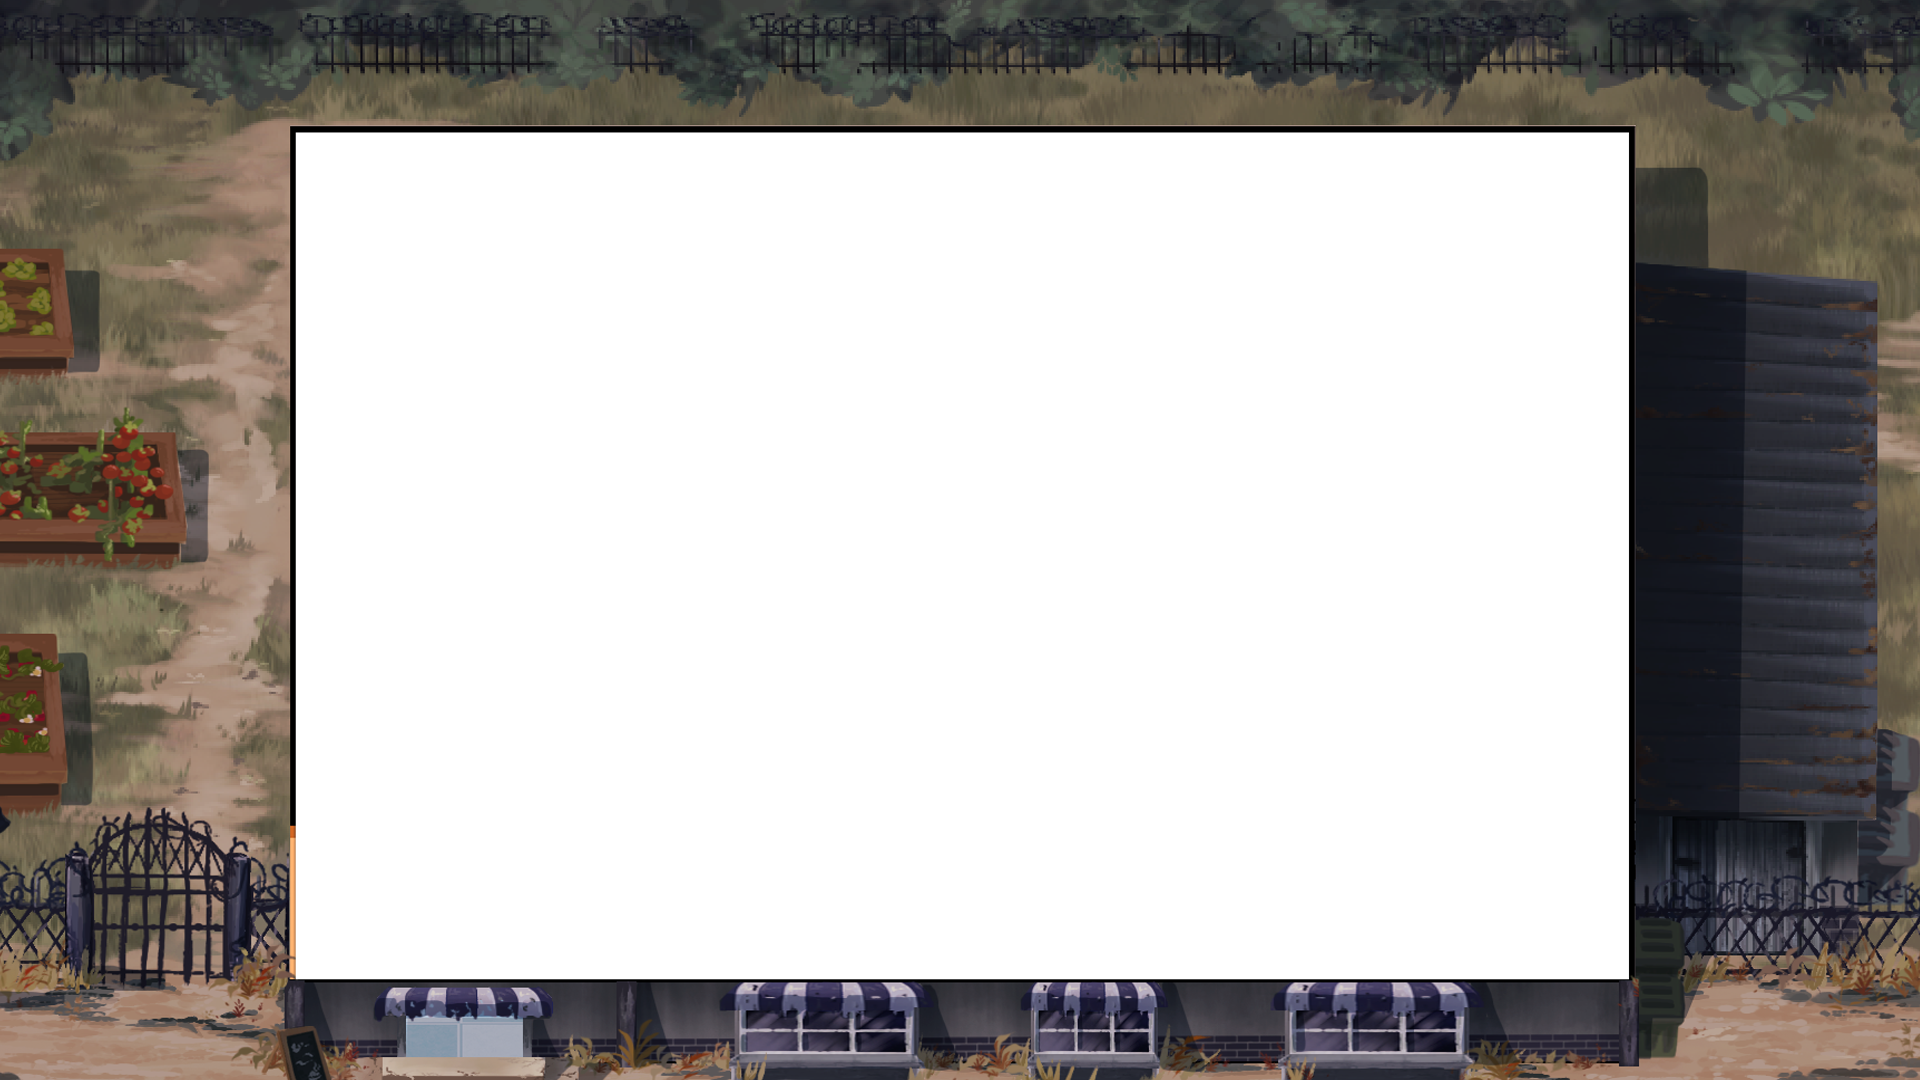
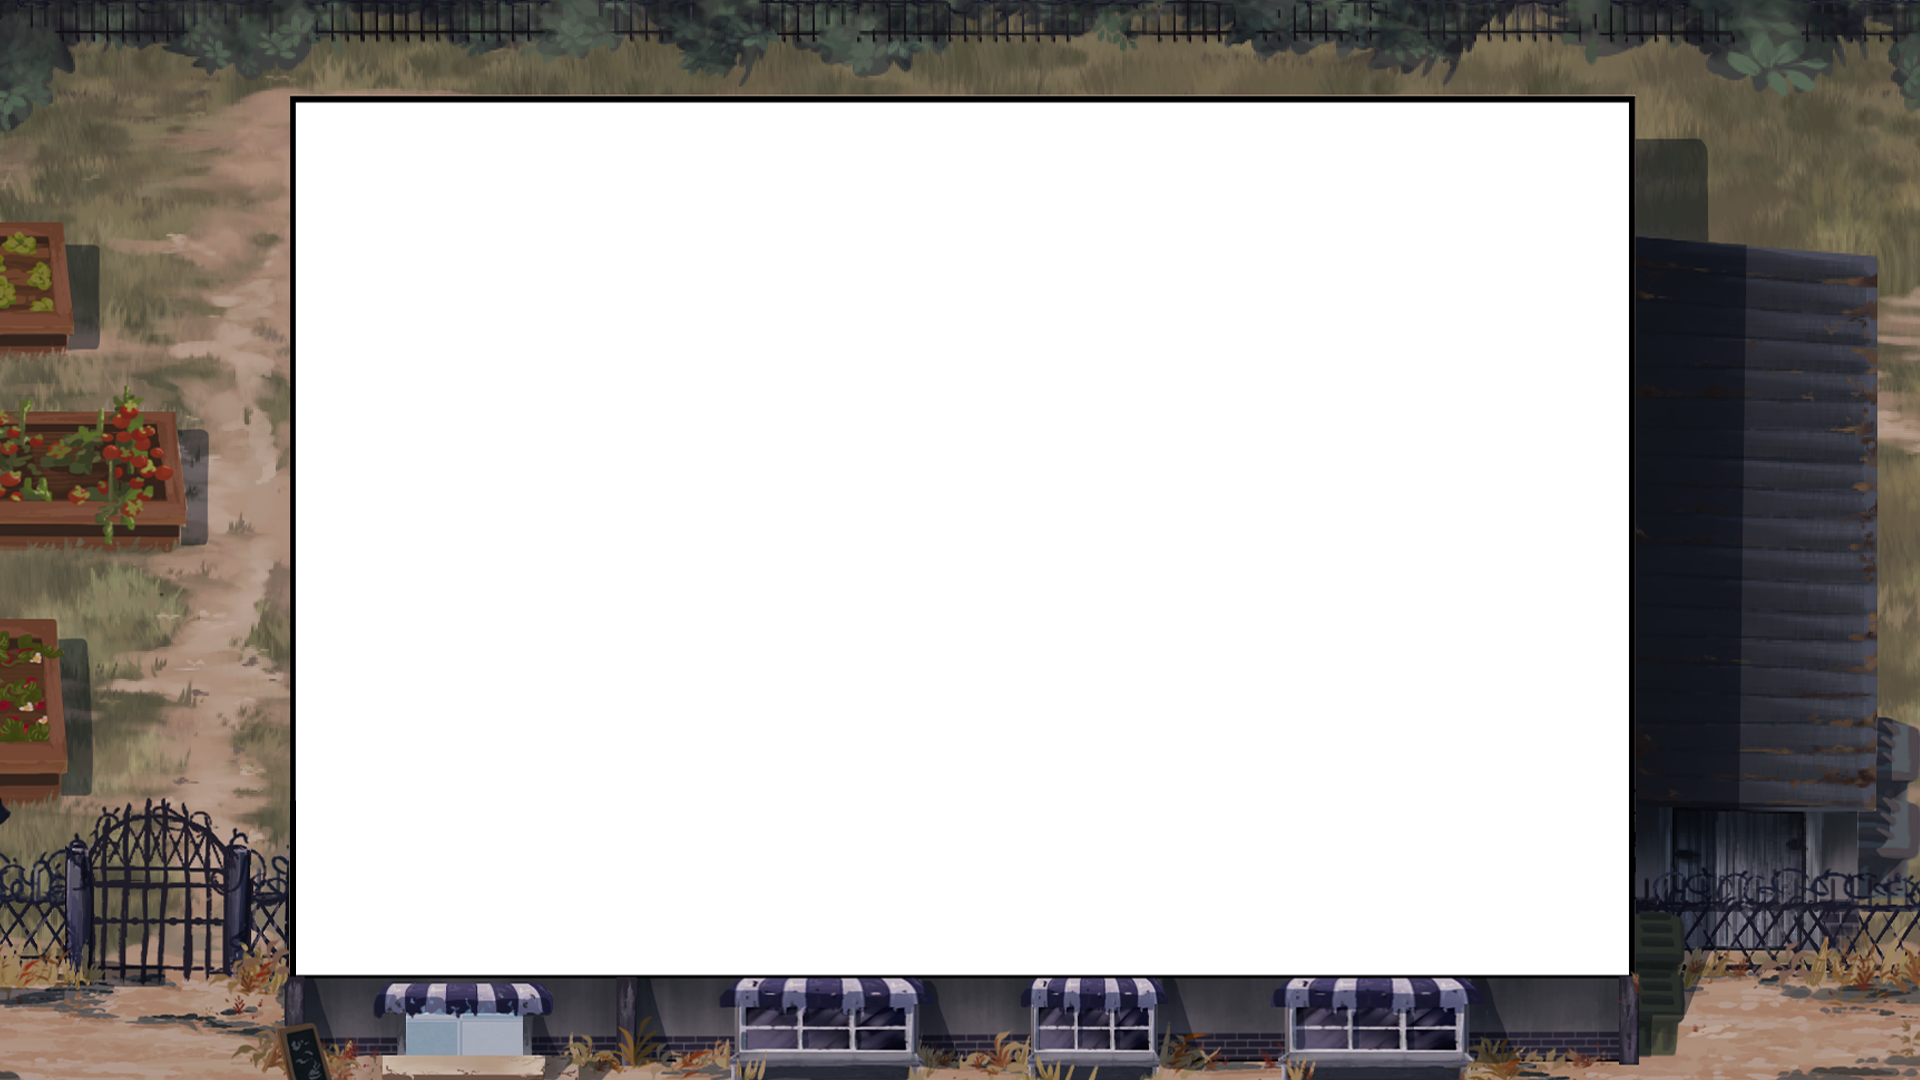
Merged with Map-levels (updated with back wall) - updated test background to accomodate new sizing. Changed MainGameScreen to load background display element first, dockets and create order button now load on top of background (correct)

Changed region(s): [[0.0, 0.0, 1.0, 1.0]]

diff --git a/source/core/src/main/com/csse3200/game/screens/MainGameScreen.java b/source/core/src/main/com/csse3200/game/screens/MainGameScreen.java
@@ -206,7 +206,8 @@ public class MainGameScreen extends ScreenAdapter {
 		docketLineDisplay = new DocketLineDisplay();
 
 		Entity ui = new Entity();
-		ui.addComponent(new InputDecorator(stage, 10))
+		ui.addComponent(new GameBackgroundDisplay())
+		.addComponent(new InputDecorator(stage, 10))
 		  	.addComponent(docketLineDisplay)
 			.addComponent(new PerformanceDisplay())
 			.addComponent(new MainGameActions(this.game))
@@ -221,8 +222,8 @@ public class MainGameScreen extends ScreenAdapter {
 			.addComponent(new RageUpgrade())
 			.addComponent(new LoanUpgrade())
 			.addComponent(new RandomCombination())
-				.addComponent(new SpeedBootsUpgrade())
-				.addComponent(new GameBackgroundDisplay());
+				.addComponent(new SpeedBootsUpgrade());
+
 
 
 
